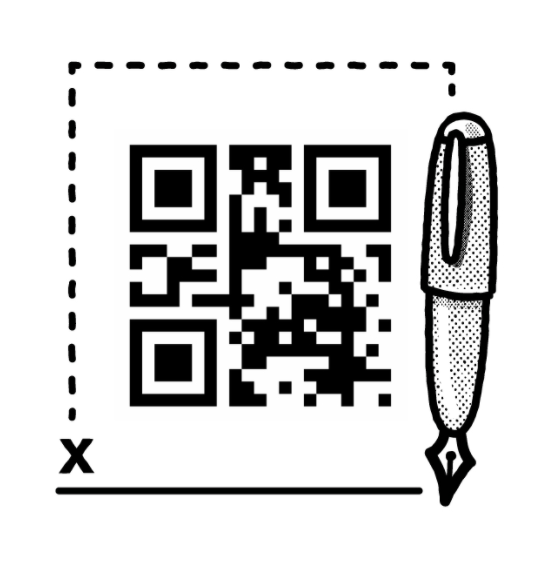
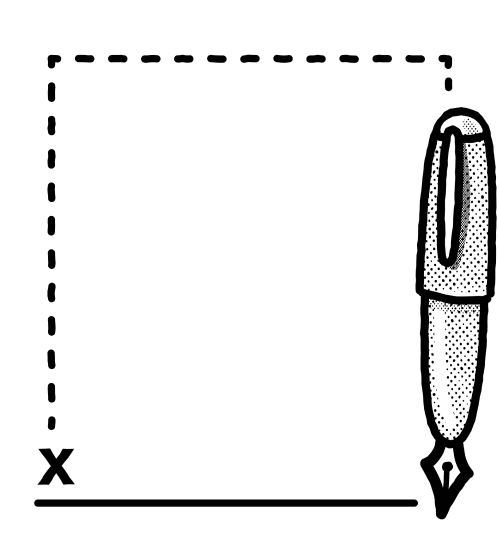
added signature frame

Changed region(s): [[0.0601, 0.0917, 1.0, 0.9478], [0.2104, 0.2446, 0.7214, 0.7338]]

diff --git a/src/components/Design.vue b/src/components/Design.vue
@@ -217,7 +217,7 @@ export default {
       textElts: [],
       cloneableNode: null,
       currentIDNumber: 1,
-      frames: [1, 2, 3, 4, 5, 6, 7, 8, 9, 10, 11, 12, 13, 14, 15],
+      frames: [1, 2, 3, 4, 5, 6, 7, 8, 9, 10, 11, 12, 13, 14, 15, 16],
       QRCanvas: null,
       frameAdded: false,
       textWidthPadding: 25,
